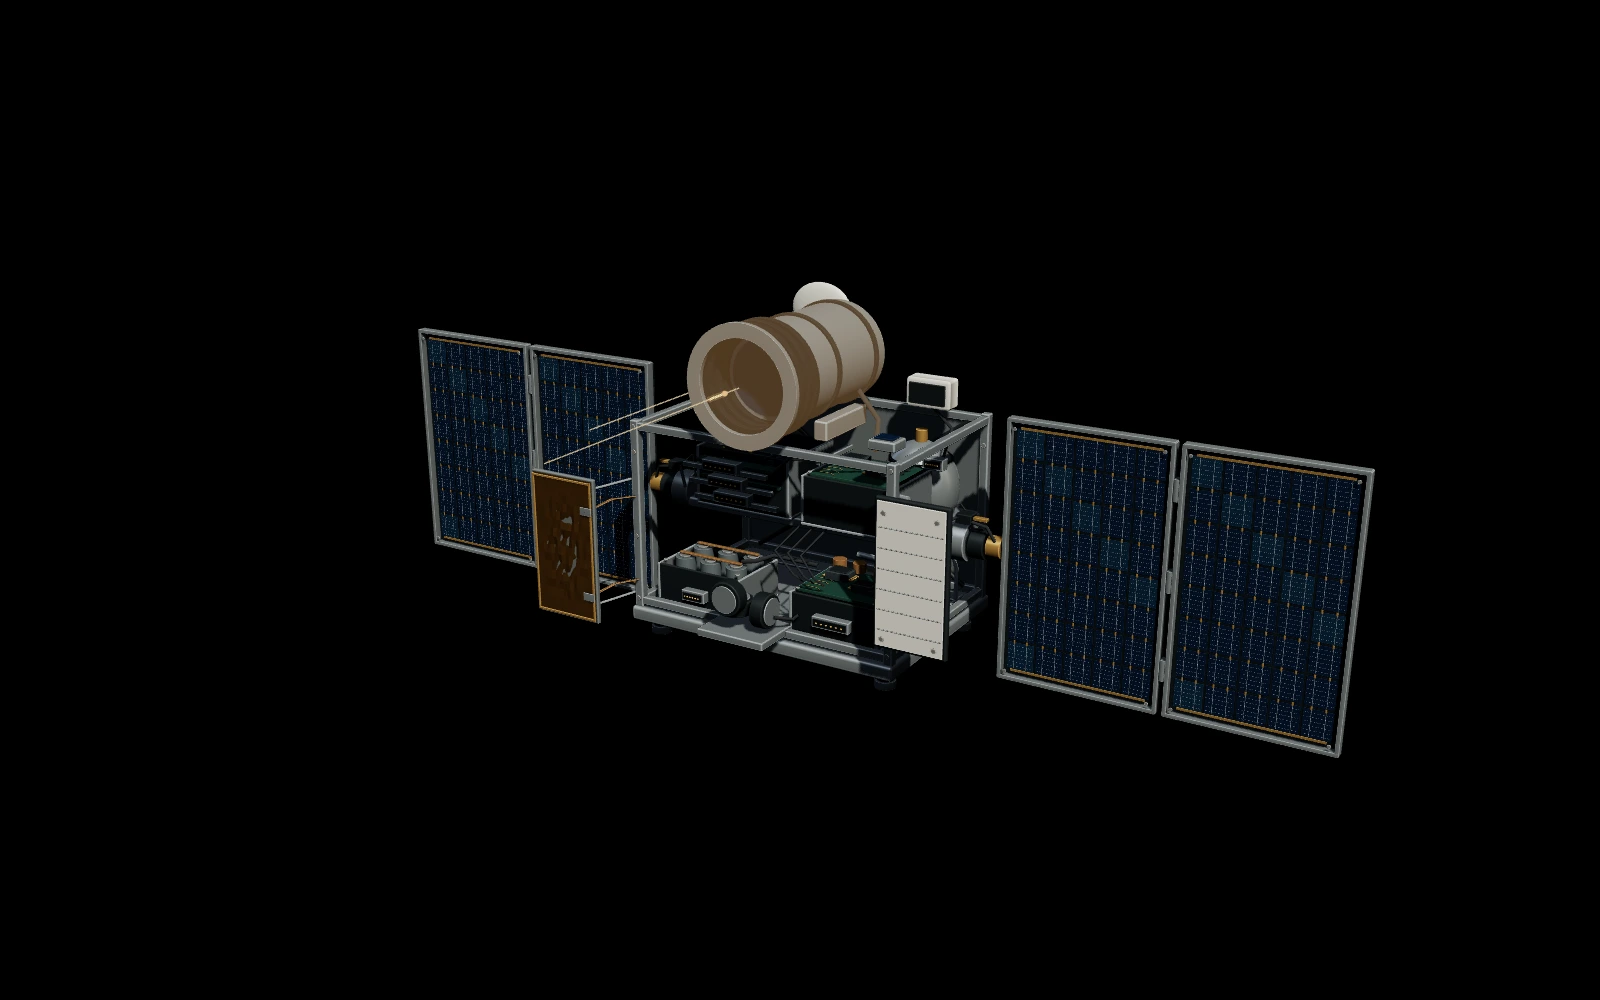
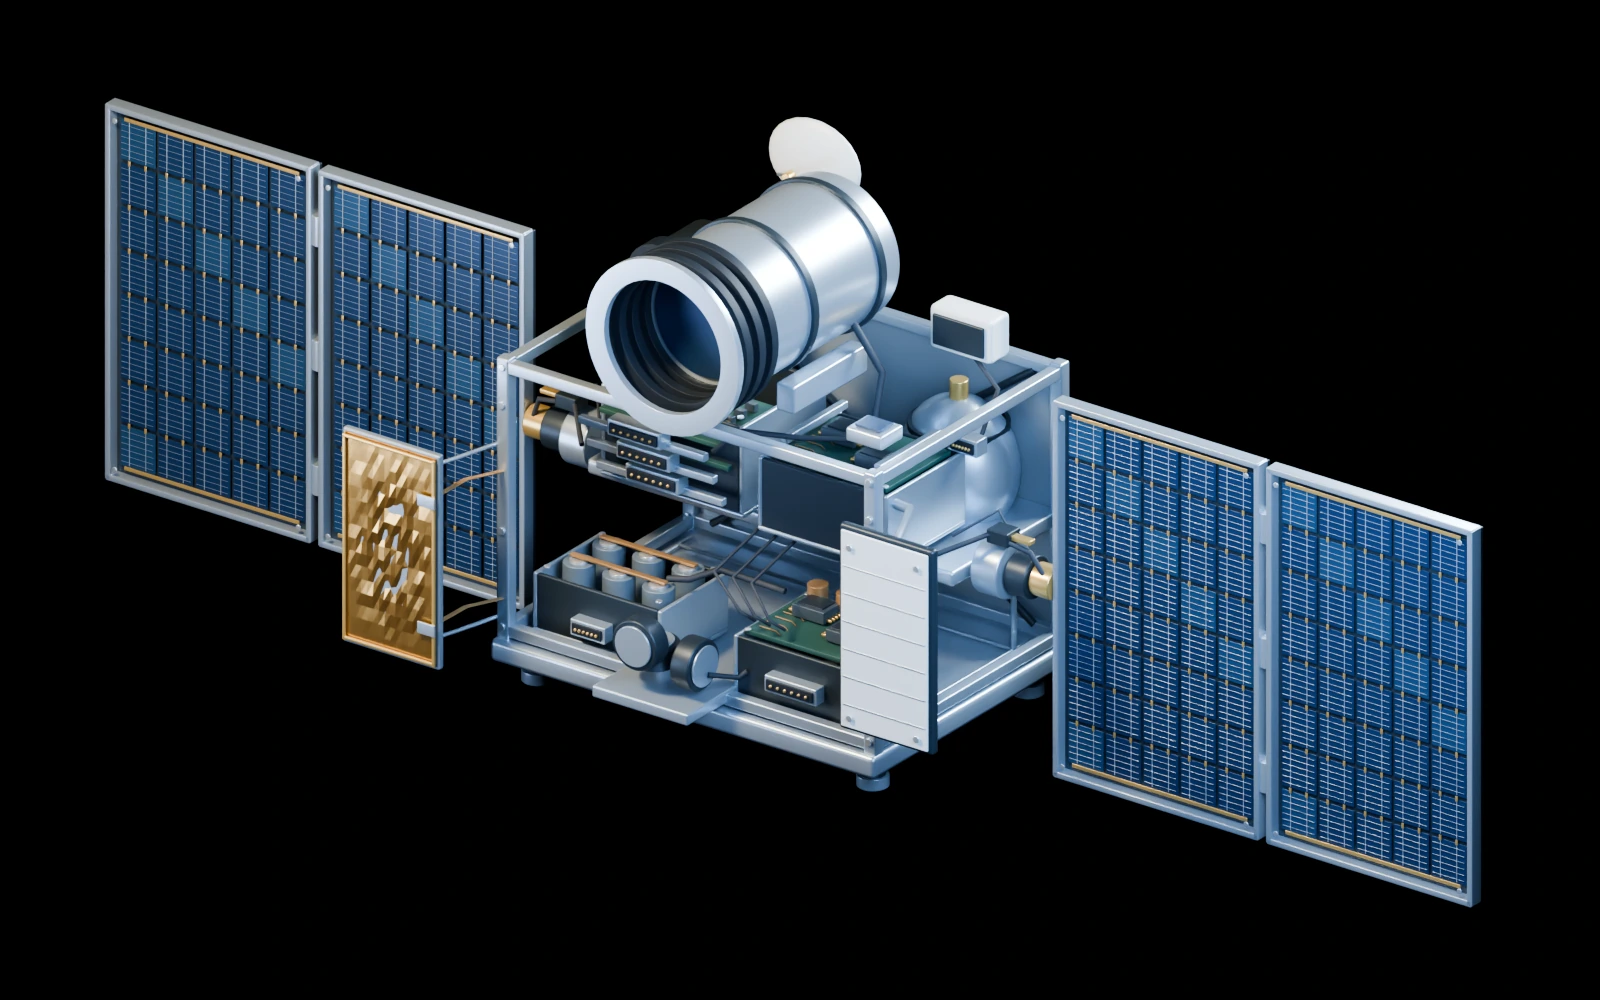
Restore Blender-quality story stills and gate their brightness and framing
Codex's rerender replaced the Blender stills of satellite, focal plane,
pixel and payload with WebGL captures of the explorer scene: 3-5x darker
and the subject filling a fraction of the frame (satellite mean luma
37.6 -> 7.8, lit pixels 35.6% -> 8.1%). The stills are now rendered again
by tools/blender/render-authored.py from the shipped v8 satellite GLB;
ring and plume stay WebGL captures.

Freshness record now also hashes camera, lighting and cinematic renderer
code and the Blender recipe. story-freshness.mjs adds a quality check:
each still keeps at least 80% of main's mean luma and lit-pixel fraction
(research/story-still-reference.json). It fails the 5b6e855 stills.

diff --git a/tools/story-still-metrics.py b/tools/story-still-metrics.py
@@ -1,0 +1,12 @@
+"""Print mean luma (0-255) and lit-pixel fraction (luma above 20) per image as JSON.
+Used by the story-still quality gate. Pillow only; no numpy."""
+import json, sys
+from PIL import Image
+LIT = 20
+out = {}
+for path in sys.argv[1:]:
+    with Image.open(path) as picture:
+        hist = picture.convert('L').histogram()
+    total = sum(hist)
+    out[path] = {'mean': round(sum(i * n for i, n in enumerate(hist)) / total, 2), 'lit': round(sum(hist[LIT + 1:]) / total, 4)}
+print(json.dumps(out))
